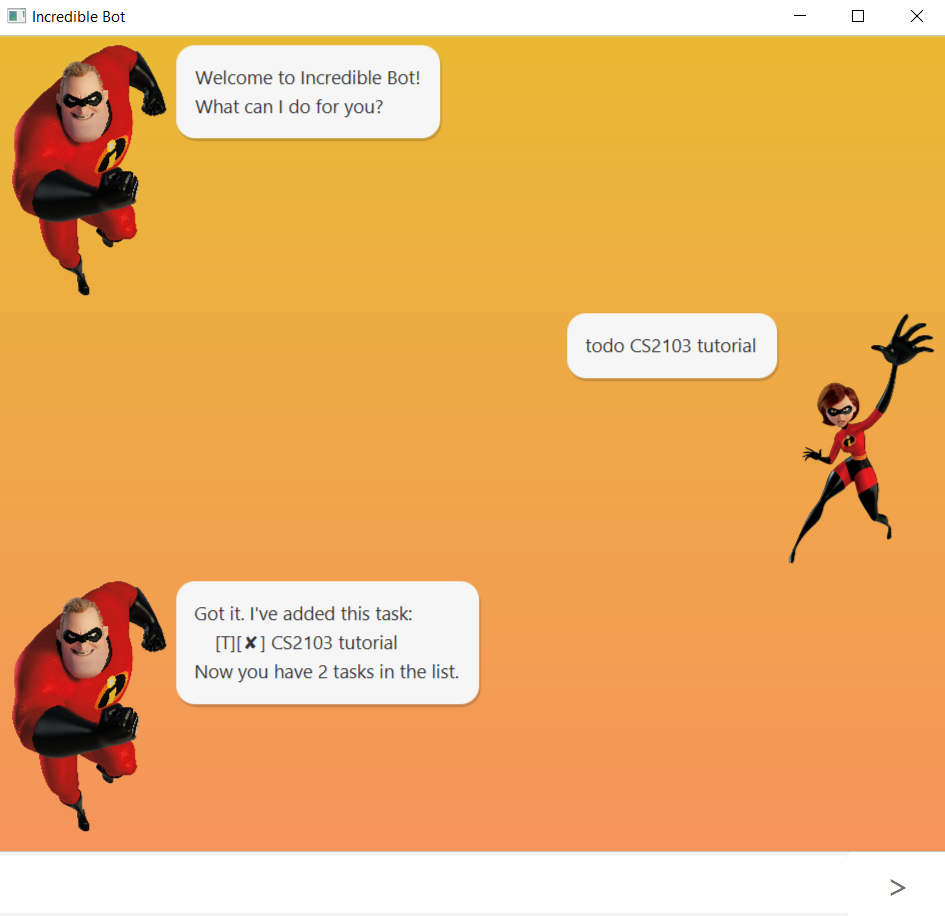
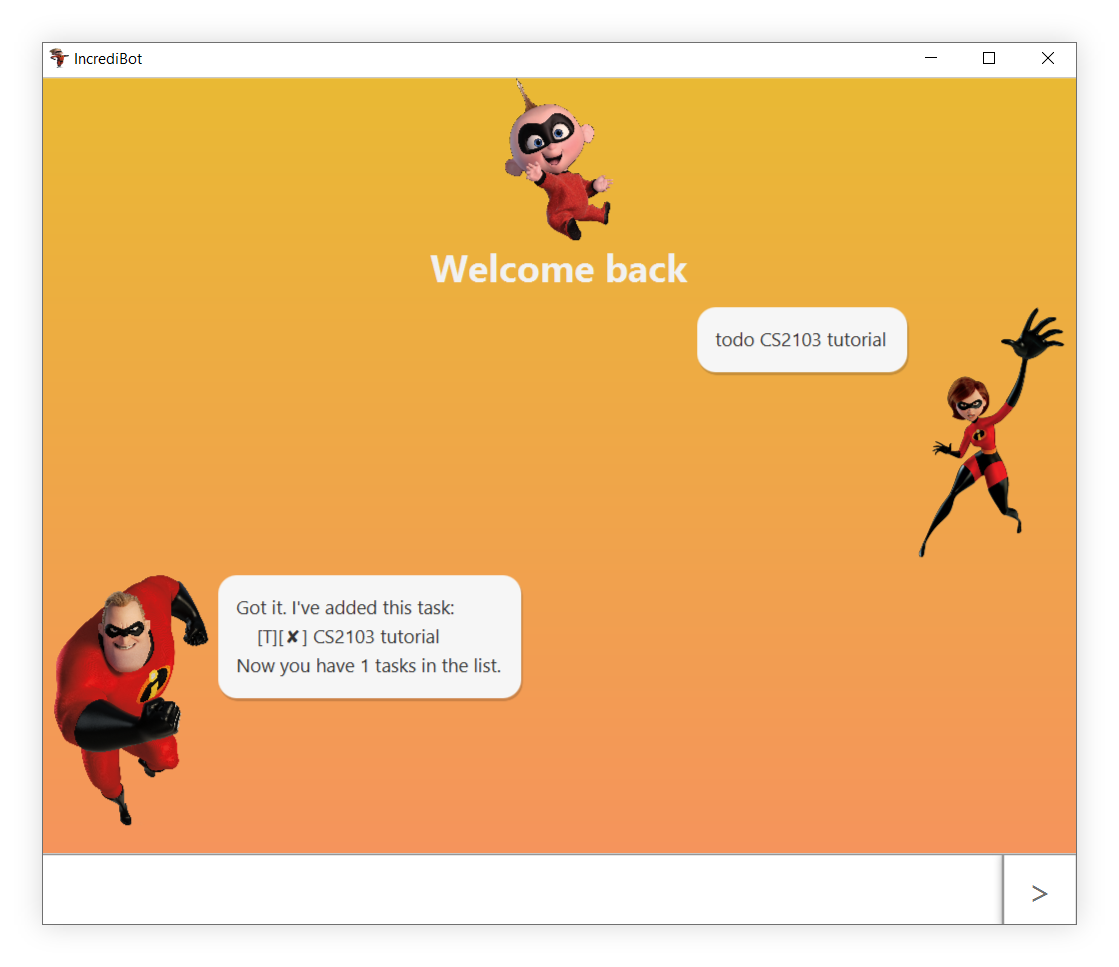
Update user guide and add images

Changed region(s): [[0.0, 0.0, 1.0, 0.9782]]

diff --git a/src/main/resources/view/MainWindow.css b/src/main/resources/view/MainWindow.css
@@ -9,10 +9,20 @@
     -fx-font-family: "Segoe UI Emoji";
     -fx-background-color: white;
     -fx-font-size: 28;
+    -fx-border-color: #969696;
+    -fx-border-width: 1;
 }
 
 .textFieldStyle {
     -fx-background-color: white;
     -fx-font-family: "Lucida Fax Regular";
     -fx-font-size: 13;
+    -fx-border-color: #969696;
+    -fx-border-width: 1;
+}
+
+.openingMessageStyle {
+    -fx-font-family: "Droid Sans";
+    -fx-font-size: 30;
+    -fx-font-weight: bolder;
 }

diff --git a/src/main/java/duke/ui/MainWindow.java b/src/main/java/duke/ui/MainWindow.java
@@ -1,11 +1,15 @@
 package duke.ui;
 
+import static duke.util.Keyword.WELCOME_MESSAGE;
+
 import duke.Duke;
 import javafx.fxml.FXML;
 import javafx.scene.control.Button;
+import javafx.scene.control.Label;
 import javafx.scene.control.ScrollPane;
 import javafx.scene.control.TextField;
 import javafx.scene.image.Image;
+import javafx.scene.image.ImageView;
 import javafx.scene.layout.AnchorPane;
 import javafx.scene.layout.VBox;
 
@@ -22,11 +26,16 @@ public class MainWindow extends AnchorPane {
     private TextField userInput;
     @FXML
     private Button sendButton;
+    @FXML
+    private ImageView centrePic;
+    @FXML
+    private Label openingMessage;
 
     private Duke duke;
 
     private final Image userImage = new Image(this.getClass().getResourceAsStream("/images/user.png"));
     private final Image dukeImage = new Image(this.getClass().getResourceAsStream("/images/duke.png"));
+    private final Image centreImage = new Image(this.getClass().getResourceAsStream("/images/jack.png"));
 
     /**
      * Initializes the main GUI screen.
@@ -50,9 +59,8 @@ public class MainWindow extends AnchorPane {
      * Greets the user when the GUI opens.
      */
     private void greetUser() {
-        dialogContainer.getChildren().addAll(
-            DialogBox.getDukeDialog(Ui.greetings(), dukeImage)
-        );
+        centrePic.setImage(centreImage);
+        openingMessage.setText(WELCOME_MESSAGE);
     }
 
     /**

diff --git a/src/main/java/duke/ui/Main.java b/src/main/java/duke/ui/Main.java
@@ -6,6 +6,7 @@ import duke.Duke;
 import javafx.application.Application;
 import javafx.fxml.FXMLLoader;
 import javafx.scene.Scene;
+import javafx.scene.image.Image;
 import javafx.scene.layout.AnchorPane;
 import javafx.stage.Stage;
 
@@ -16,7 +17,8 @@ public class Main extends Application {
 
     private static final String PATH_TO_MAIN_WINDOW = "/view/MainWindow.fxml";
     private static final String PATH_TO_MAIN_WINDOW_STYLES = "/view/MainWindow.css";
-    private static final String NAME = "Incredible Bot";
+    private static final String PATH_TO_IMG = "/images/dash.png";
+    private static final String NAME = "IncrediBot";
 
     private final Duke duke = new Duke();
 
@@ -33,6 +35,7 @@ public class Main extends Application {
             Scene scene = new Scene(ap);
             scene.getStylesheets().add(PATH_TO_MAIN_WINDOW_STYLES);
             stage.setTitle(NAME);
+            stage.getIcons().add(new Image(Main.class.getResourceAsStream(PATH_TO_IMG)));
             stage.setScene(scene);
             fxmlLoader.<MainWindow>getController().setDuke(duke);
             stage.show();

diff --git a/src/main/java/duke/ui/Ui.java b/src/main/java/duke/ui/Ui.java
@@ -15,8 +15,6 @@ import static duke.util.Keyword.SORT_SUCCESS_MESSAGE;
 import static duke.util.Keyword.TASK_ADDED_MESSAGE;
 import static duke.util.Keyword.TASK_DELETED_MESSAGE;
 import static duke.util.Keyword.TASK_MARKED_MESSAGE;
-import static duke.util.Keyword.WELCOME_MESSAGE_ONE;
-import static duke.util.Keyword.WELCOME_MESSAGE_TWO;
 
 import java.util.stream.IntStream;
 
@@ -79,15 +77,6 @@ public class Ui {
      */
     private static void appendWithNewLine(StringBuilder stringBuilder, String string) {
         stringBuilder.append(string).append(LINE_SEPARATOR);
-    }
-
-    /**
-     * Greets the user upon starting the program.
-     *
-     * @return Greetings message to the user.
-     */
-    public static String greetings() {
-        return stringFormatter(WELCOME_MESSAGE_ONE, WELCOME_MESSAGE_TWO);
     }
 
     /**

diff --git a/src/main/java/duke/util/Keyword.java b/src/main/java/duke/util/Keyword.java
@@ -57,8 +57,7 @@ public class Keyword {
 
     // Ui
     public static final String EMPTY_STRING_ERROR = "String builder is empty!";
-    public static final String WELCOME_MESSAGE_ONE = "Welcome to Incredible Bot!";
-    public static final String WELCOME_MESSAGE_TWO = "What can I do for you?";
+    public static final String WELCOME_MESSAGE = "Welcome back";
     public static final String GOODBYE_MESSAGE = "Bye! Hope to see you again soon!";
     public static final String TASK_MARKED_MESSAGE = "Nice! I've marked this task as done:";
     public static final String TASK_DELETED_MESSAGE = "Noted. I've removed this task:";

diff --git a/src/test/java/duke/ui/UiTest.java b/src/test/java/duke/ui/UiTest.java
@@ -19,14 +19,6 @@ public class UiTest {
     private final ToDo toDo = new ToDo("test");
 
     /**
-     * Tests greetings method.
-     */
-    @Test
-    public void testGreeting() {
-        assertEquals("Welcome to Incredible Bot!\nWhat can I do for you?\n", Ui.greetings());
-    }
-
-    /**
      * Tests goodbye method.
      */
     @Test

diff --git a/docs/README.md b/docs/README.md
@@ -1,10 +1,10 @@
-# User Guide for Incredible Bot
+# User Guide for IncrediBot
 
 *Keane Chan Jun Yu | A0205678W*
 
 <p align="center"><img src="Ui.png" width="75%"/></p>
 
-Welcome to Incredible Bot, a task manager app which manages your todos, events and deadlines!
+Welcome to IncrediBot, a task manager app which manages your todos, events and deadlines!
 
 ## Table of Contents
 - [Features](#Features)
@@ -28,7 +28,7 @@ Welcome to Incredible Bot, a task manager app which manages your todos, events a
 
 ## Features
 
-In the Incredible Bot, there types of tasks can be created:
+In the IncrediBot, there types of tasks can be created:
 
 ### 1. Todo
 
@@ -228,7 +228,7 @@ Now you have 2 tasks in the list.
 
 ### `help` - Displays the list of commands available
 
-Incredible Bot will display the list of commands that he knows.
+IncrediBot will display the list of commands that he knows.
 
 Example of usage:
 
@@ -267,9 +267,11 @@ Bye! Hope to see you again soon!
 ## Acknowledgements
 
 ### External packages Used
-- [JUnit by JUnit Team](https://github.com/junit-team/junit5/) - For testing classes and methods in Incredible Bot
+- [JUnit by JUnit Team](https://github.com/junit-team/junit5/) - For testing classes and methods in IncrediBot
 - [JavaFX by OpenJDK](https://github.com/openjdk/jfx) - For creating Graphical User Interface.
 
 ### Images Used
 - [User image](https://www.pngitem.com/middle/hbxJbTo_the-incredibles-2-mrs-incredible-png-by-metropolis/)
-- [Duke image](https://www.pngitem.com/middle/xwTbRJ_incredibles-2-mr-incredible-png-clipart-png-download/)
+- [Incredibot image](https://www.pngitem.com/middle/xwTbRJ_incredibles-2-mr-incredible-png-clipart-png-download/)
+- [Greeting image](https://www.pngitem.com/middle/hJJboRT_jackjack-incredibles-freetoedit-jack-jack-parr-the-incredibles/)
+- [App icon](https://www.pngitem.com/middle/xwThJR_elastigirl-calls-danger-incredibles-incredibles-dash-hd-png/)
